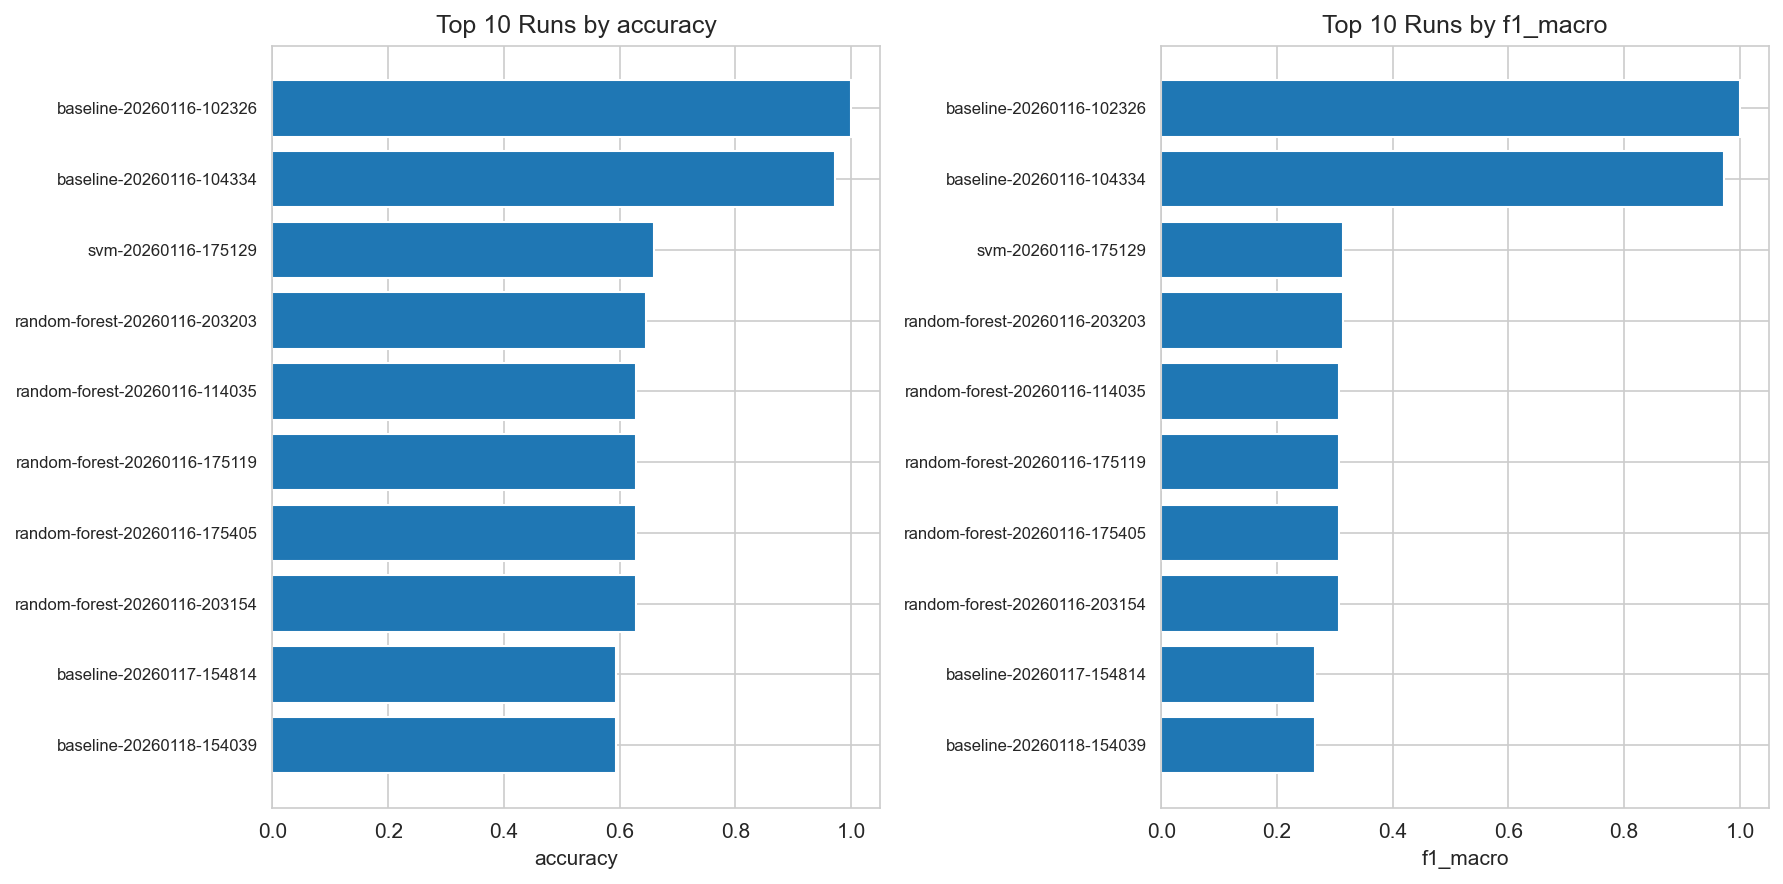
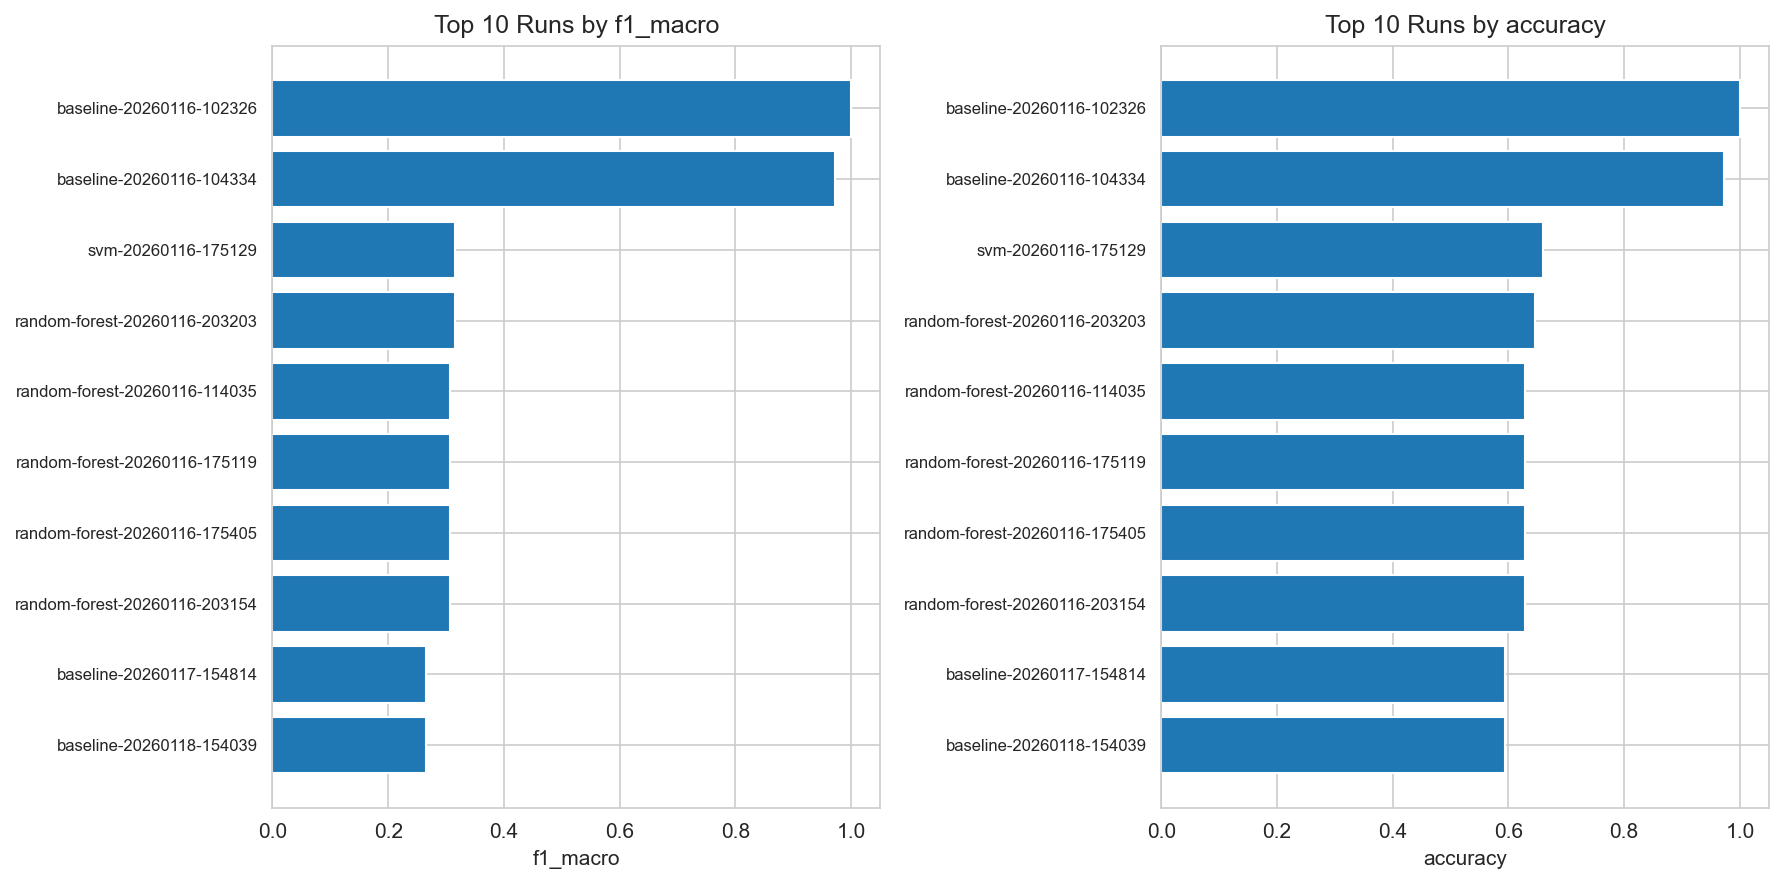
[upd] reports

diff --git a/scripts/generate_experiment_report.py b/scripts/generate_experiment_report.py
@@ -228,8 +228,16 @@ def generate_markdown_report(
     report_lines.extend([
         "## Визуализации",
         "",
-        "![Metrics by Model Type](figures/metrics_by_model_type.png)",
-        "",
+    ])
+
+    # Добавить ссылку на график метрик по типам моделей, только если он был сгенерирован
+    if model_type_col:
+        report_lines.extend([
+            "![Metrics by Model Type](figures/metrics_by_model_type.png)",
+            "",
+        ])
+
+    report_lines.extend([
         "![Metrics Distribution](figures/metrics_distribution.png)",
         "",
         "![Top Models](figures/top_models.png)",

diff --git a/reports/experiments/experiment_report.md b/reports/experiments/experiment_report.md
@@ -1,20 +1,12 @@
 # Отчет об экспериментах: wine-quality
 
-**Дата генерации:** 2026-01-18 15:41:41 UTC
+**Дата генерации:** 2026-01-19 13:05:29 UTC
 
 **Всего экспериментов:** 27
 **Успешных:** 27
 **Неудачных:** 0
 
 ## Общая статистика
-
-### accuracy
-
-- **Среднее:** 0.6325
-- **Медиана:** 0.5939
-- **Стандартное отклонение:** 0.1037
-- **Минимум:** 0.5939
-- **Максимум:** 1.0000
 
 ### f1_macro
 
@@ -24,15 +16,15 @@
 - **Минимум:** 0.2656
 - **Максимум:** 1.0000
 
-## Топ 5 моделей по метрикам
-
 ### accuracy
 
-- **baseline-20260116-102326**: 1.0000
-- **baseline-20260116-104334**: 0.9722
-- **svm-20260116-175129**: 0.6594
-- **random-forest-20260116-203203**: 0.6463
-- **random-forest-20260116-203154**: 0.6288
+- **Среднее:** 0.6325
+- **Медиана:** 0.5939
+- **Стандартное отклонение:** 0.1037
+- **Минимум:** 0.5939
+- **Максимум:** 1.0000
+
+## Топ 5 моделей по метрикам
 
 ### f1_macro
 
@@ -42,13 +34,19 @@
 - **random-forest-20260116-203203**: 0.3146
 - **random-forest-20260116-203154**: 0.3076
 
+### accuracy
+
+- **baseline-20260116-102326**: 1.0000
+- **baseline-20260116-104334**: 0.9722
+- **svm-20260116-175129**: 0.6594
+- **random-forest-20260116-203203**: 0.6463
+- **random-forest-20260116-203154**: 0.6288
+
 ## Сравнительная таблица
 
 Полная таблица сохранена в `experiment_results.csv`
 
 ## Визуализации
-
-![Metrics by Model Type](figures/metrics_by_model_type.png)
 
 ![Metrics Distribution](figures/metrics_distribution.png)
 

diff --git a/reports/experiments/README.md b/reports/experiments/README.md
@@ -18,7 +18,7 @@ PYTHONPATH=. uv run python scripts/generate_experiment_report.py \
 - `experiment_report.md` - Markdown отчет с анализом экспериментов
 - `experiment_results.csv` - Сравнительная таблица всех экспериментов
 - `figures/` - Графики и визуализации:
-  - `metrics_by_model_type.png` - Сравнение метрик по типам моделей
+  - `metrics_by_model_type.png` - Сравнение метрик по типам моделей (генерируется только если в экспериментах есть параметр model_type)
   - `metrics_distribution.png` - Распределение метрик
   - `top_models.png` - Топ модели по метрикам
 
